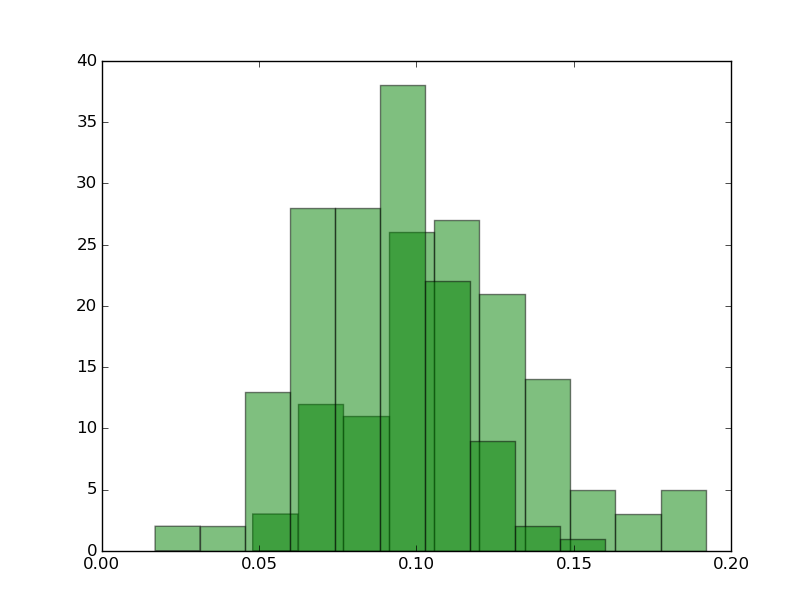
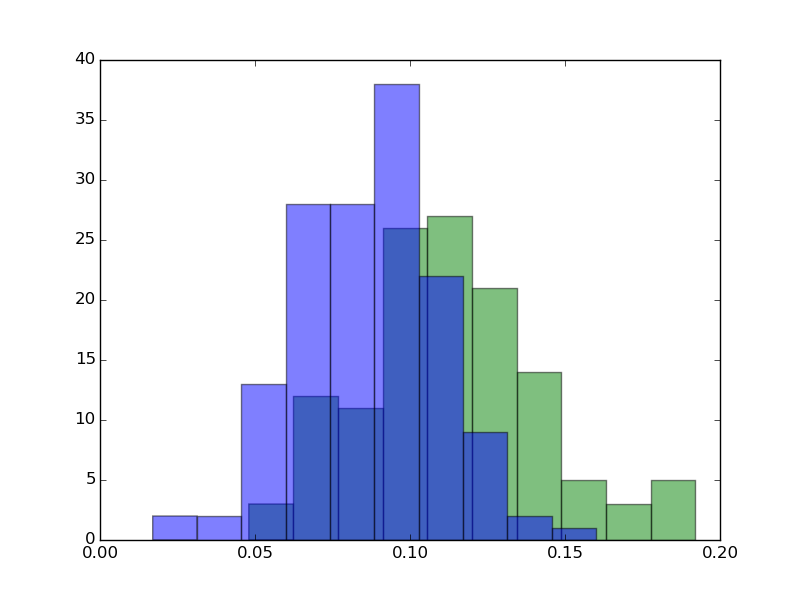
add the implementation of dynamic infer

diff --git a/python/learnPython/statistic/InferStats/dynamic_infer.py b/python/learnPython/statistic/InferStats/dynamic_infer.py
@@ -1,22 +1,91 @@
+from __future__ import division
+from gi.overrides.Gdk import argv
+import math
+import numpy as np
 from hw_scrape.PIE import get_pie
+from statistic import pearson_r
 from statistic.InferStats import draw
-from statistic.InferStats.draw import draw_scatter
+from statistic.InferStats.draw import draw_scatter, draw_curve
+from statistic.check.util import average
+
+THRESHOLD = 0.7
 
 __author__ = 'zzt'
 
 PATH = ''
-REST_LIST = (0, 1, 2, 3, 4, 6)
+REST_LIST = [0.0000001, 1, 2, 3, 4, 5, 6]
+
+functions = {
+    0: lambda x, a, b: [a + b * i for i in x],
+    1: lambda x, a, b: [1 / (a + b / i) for i in x],
+    2: lambda x, a, b: [math.pow(math.e, a) * math.pow(math.e, b * i) for i in x],
+    3: lambda x, a, b: [a + b * math.log(i) for i in x],
+    4: lambda x, a, b: [math.pow(math.e, a) * math.pow(i, b) for i in x]
+}
+
+
+def min_2(x, y):
+    assert len(x) == len(y)
+    x_bar = average(x)
+    y_bar = average(y)
+    lxy_1 = 0.0
+    for i in range(0, len(x)):
+        lxy_1 += (x[i] * y[i])
+    lxy = lxy_1 - sum(x) * sum(y) / len(x)
+    l_xx = sum(a ** 2 for a in x) - sum(x) ** 2 / len(x)
+    b = lxy / l_xx
+    a = y_bar - b * x_bar
+    print('y = {} + {}*b'.format(a, b))
+    r = pearson_r.pearson_r(x, y)
+    return [r, a, b]
+
+
+def different_model(x, y):
+    r = [0] * 5
+    a = [1] * 5
+    b = [1] * 5
+    # linear
+    r[0], a[0], b[0] = min_2(x, y)
+    # 1/x
+    r[1], a[1], b[1] = min_2([1 / ax for ax in x], [1 / bx for bx in y])
+    # e^x
+    r[2], a[2], b[2] = min_2(x, [math.log(bx) for bx in y])
+    # lnx
+    r[3], a[3], b[3] = min_2([math.log(ax) for ax in x], y)
+    # x^b
+    r[4], a[4], b[4] = min_2([math.log(ax) for ax in x], [math.log(bx) for bx in y])
+    r_ = [abs(t) for t in r]
+    i = r_.index(max(r_))
+    if max(r_) < THRESHOLD:
+        return
+    else:
+        draw_curve(np.linspace(0, 6, 3001), functions[i], a[i], b[i])
 
 
 def infer_rest_player(player_id, path=PATH):
     rest = get_pie(player_id)[1:]
     assert len(rest) == len(REST_LIST)
     # draw graph
-    draw_scatter(REST_LIST, rest, 10)
-    # TODO analysis
+    tmp = []
+    final = []
+    for i in range(0, len(rest)):
+        if rest[i] != 0:
+            final.append(rest[i])
+            tmp.append(REST_LIST[i])
 
-    draw.finish(path)
+    draw_scatter(tmp, final, 10)
+    if len(tmp) < 3:
+        return
+    different_model(tmp, final)
+    draw.finish(path + player_id)
 
 
 if __name__ == '__main__':
-    infer_rest_player('203112')
+    if len(argv) == 2:
+        infer_rest_player(argv[1])
+
+        # l = [116.5, 120.8, 124.4, 125.5, 131.7, 136.2, 138.7, 140.2]
+        # y = [255.7, 263.3, 275.4, 278.4, 296.7, 309.3, 315.8, 318.8]
+        # draw_scatter(y, l, 10)
+        # different_model(y, l)
+        # draw.finish('test')

diff --git a/python/learnPython/statistic/InferStats/static_infer.py b/python/learnPython/statistic/InferStats/static_infer.py
@@ -59,4 +59,26 @@ if __name__ == '__main__':
     # l2 = [79.1, 81.0, 77.3, 79.1, 80.0, 79.1, 79.1, 77.3, 80.2, 82.1]
     # infer_by_t(l1, l2, 0.05)
     # infer_by_chi(l1, l2, 0.05)
-    infer_overall()
+    # infer_overall()
+    l0 = [0.083, 0.068, 0.156, 0.111, 0.095, 0.109, 0.089, 0.064, 0.11, 0.098, 0.092, 0.071, 0.13, 0.113, 0.143, 0.071,
+          0.085, 0.138, 0.065, 0.099, 0.115, 0.141, 0.087, 0.12, 0.124, 0.18, 0.1, 0.178, 0.192, 0.115, 0.103, 0.112,
+          0.111, 0.125, 0.156, 0.081, 0.097, 0.118, 0.116, 0.138, 0.062, 0.126, 0.151, 0.169, 0.131, 0.076, 0.133,
+          0.104, 0.112, 0.095, 0.146, 0.184, 0.113, 0.139, 0.094, 0.108, 0.097, 0.108, 0.071, 0.145, 0.107, 0.128,
+          0.171, 0.142, 0.093, 0.101, 0.068, 0.132, 0.124, 0.11, 0.129, 0.097, 0.125, 0.072, 0.084, 0.148, 0.137, 0.13,
+          0.089, 0.135, 0.126, 0.1, 0.081, 0.065, 0.116, 0.13, 0.15, 0.107, 0.097, 0.098, 0.111, 0.108, 0.133, 0.099,
+          0.112, 0.102, 0.105, 0.173, 0.09, 0.101, 0.104, 0.143, 0.096, 0.06, 0.108, 0.106, 0.066, 0.048, 0.083, 0.12,
+          0.133, 0.072, 0.126, 0.093, 0.11, 0.134, 0.146, 0.141, 0.121, 0.151, 0.121, 0.187, 0.081, 0.106, 0.097, 0.1,
+          0.127]
+    l1 = [0.089, 0.135, 0.133, 0.107, 0.091, 0.071, 0.09, 0.079, 0.053, 0.067, 0.1, 0.096, 0.072, 0.096, 0.102, 0.103,
+          0.09, 0.106, 0.068, 0.082, 0.079, 0.095, 0.07, 0.073, 0.063, 0.106, 0.115, 0.088, 0.092, 0.086, 0.065, 0.084,
+          0.094, 0.058, 0.101, 0.076, 0.078, 0.07, 0.103, 0.092, 0.052, 0.121, 0.066, 0.08, 0.052, 0.095, 0.058, 0.091,
+          0.081, 0.062, 0.075, 0.1, 0.113, 0.16, 0.086, 0.073, 0.047, 0.093, 0.052, 0.05, 0.074, 0.092, 0.017, 0.022,
+          0.068, 0.112, 0.1, 0.041, 0.079, 0.119, 0.09, 0.072, 0.11, 0.087, 0.074, 0.1, 0.115, 0.056, 0.092, 0.11,
+          0.124, 0.111, 0.096, 0.078, 0.121, 0.116, 0.093, 0.098, 0.1, 0.101, 0.073, 0.058, 0.094, 0.079, 0.067, 0.087,
+          0.105, 0.082, 0.13, 0.06, 0.091, 0.092, 0.081, 0.094, 0.099, 0.051, 0.084, 0.057, 0.08, 0.093, 0.086, 0.073,
+          0.064, 0.086, 0.113, 0.05, 0.062, 0.113, 0.13, 0.104, 0.106, 0.086, 0.093, 0.076, 0.097, 0.07, 0.117, 0.043,
+          0.131, 0.077, 0.129, 0.07, 0.097, 0.102, 0.069, 0.074, 0.112, 0.086, 0.104, 0.062, 0.063, 0.082, 0.117, 0.128,
+          0.09]
+    draw_hist(l0, BIN)
+    draw_hist(l1, BIN, 'b')
+    finish('./static_infer')

diff --git a/python/hw/hw_scrape/PIE.py b/python/hw/hw_scrape/PIE.py
@@ -1,6 +1,6 @@
 import requests
 from hw_scrape.AllPlayers import find_all_players
-from hw_scrape.CsvHelper import dict_to_list2d, list2d_to_csv
+from hw_scrape.CsvHelper import dict_to_list2d
 from hw_scrape.ParameterType import PIEType
 from hw_scrape.PlayerBasic import valid_response
 
@@ -44,8 +44,14 @@ def get_pie(player_id, ptype=PIEType.rest):
 
     # diminish some game < 3
     rest_pie = [player_id]
-    for row in result_sets[6]['rowSet']:
+    for i in range(0, 7):
+        if i >= len(result_sets[6]['rowSet']):
+            rest_pie.append(0)
+            continue
+        row = result_sets[6]['rowSet'][i]
         if row[2] < 3:
+            rest_pie.append(0)
+        elif row[1][0] != str(i):
             rest_pie.append(0)
         else:
             rest_pie.append(row[PIE_INDEX])

diff --git a/python/learnPython/statistic/InferStats/draw.py b/python/learnPython/statistic/InferStats/draw.py
@@ -12,16 +12,27 @@ def draw_scatter(x, y, area):
     scatter(x, y, s=area, c=colors, alpha=0.6)
 
 
-def draw_hist(x, bin):
+def draw_hist(x, bin, c='g'):
     print('data is : ' + str(x))
     # the histogram of the data
-    hist(x, bins=bin, color='g', alpha=0.5)
+    hist(x, bins=bin, color=c, alpha=0.5)
 
 
 def draw_line(x):
     plot(x)
 
 
+def draw_curve(x, f, a, b):
+    plot(x, f(x, a, b))
+
+
 def finish(path=''):
     # show image
     savefig(path + '.png')
+
+
+if __name__ == '__main__':
+    x = [1.0, 2.9, 3.8]
+    # draw_line(x)
+    # show()
+    # finish('test_line')

diff --git a/python/learnPython/statistic/pearson_r.py b/python/learnPython/statistic/pearson_r.py
@@ -1,0 +1,16 @@
+from math import sqrt
+from statistic.check.util import average, s_2
+
+__author__ = 'zzt'
+
+
+def pearson_r(x, y):
+    assert len(x) == len(y)
+    x_bar = average(x)
+    y_bar = average(y)
+    s_x = sqrt(s_2(x))
+    s_y = sqrt(s_2(y))
+    tmp = 0.0
+    for i in range(0, len(x)):
+        tmp += ((x[i] - x_bar) * (y[i] - y_bar) / s_x / s_y)
+    return tmp / (len(x) - 1)

diff --git a/python/learnPython/statistic/draw_curved.py b/python/learnPython/statistic/draw_curved.py
@@ -1,0 +1,14 @@
+__author__ = 'zzt'
+import matplotlib.pyplot as plt
+import numpy as np
+
+
+def f(x):
+    return [1 / (1 + 1 / b) for b in x]
+
+
+if __name__ == '__main__':
+    z = np.linspace(0.1, 5, 3001)
+
+    plt.plot(z, f(z))
+    plt.show()

diff --git a/python/hw/hw_scrape/Games.py b/python/hw/hw_scrape/Games.py
@@ -142,8 +142,8 @@ def pre_season(season):
 
 
 if __name__ == '__main__':
-    for sea in range(11, 12):
-        regular(sea)
+    for sea in range(14, 15):
+        # regular(sea)
         playoff(sea)
         # pre_season(sea)
 
